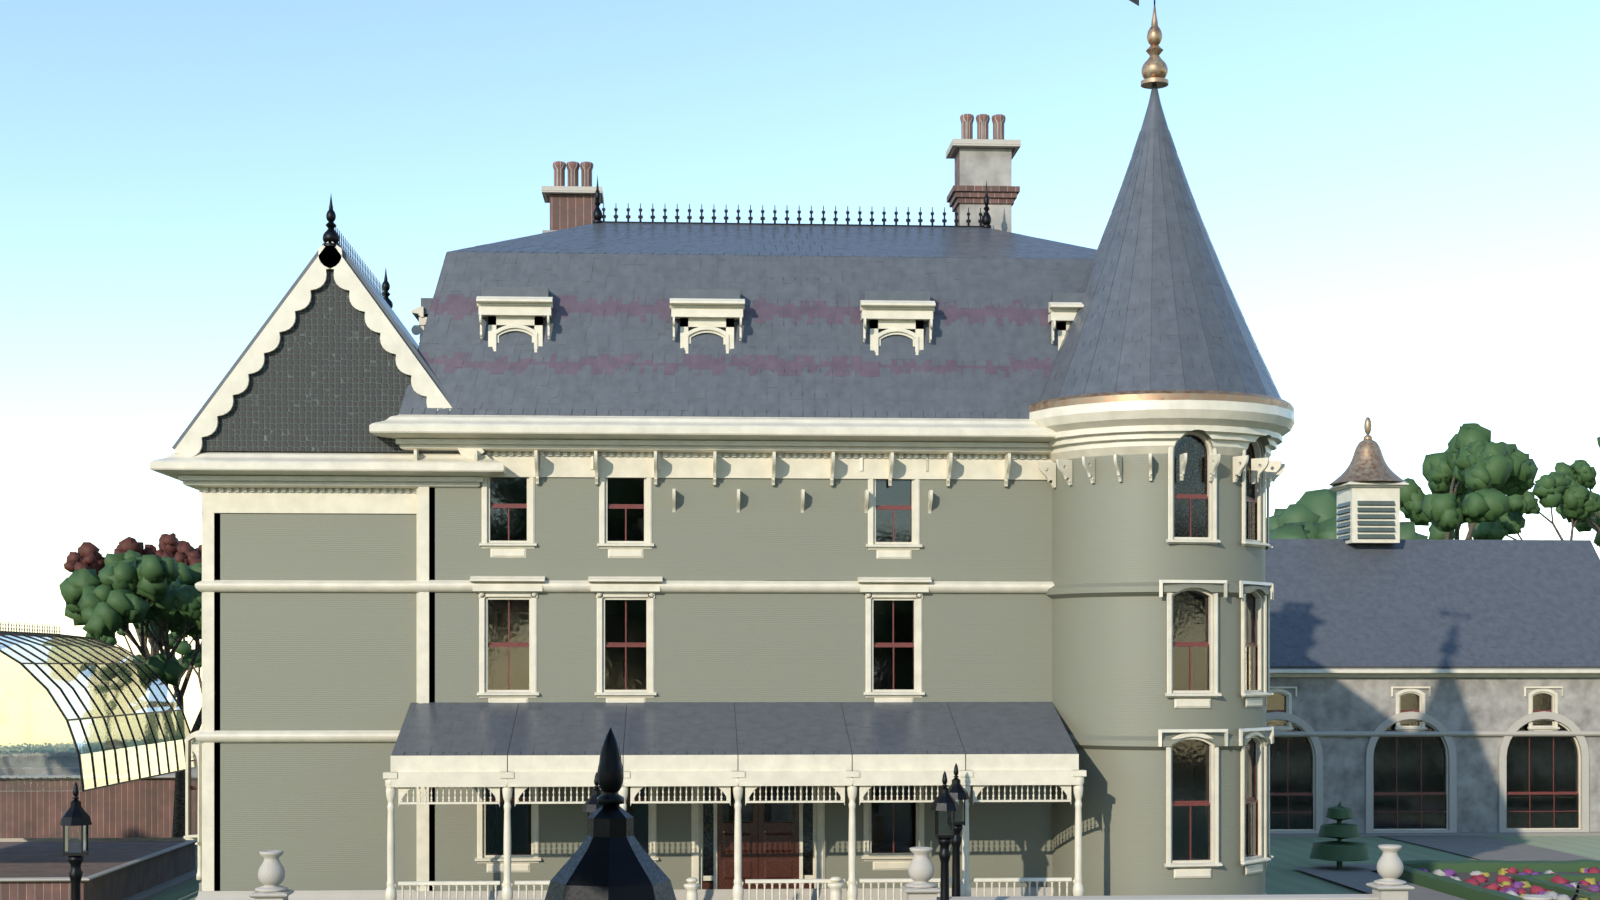
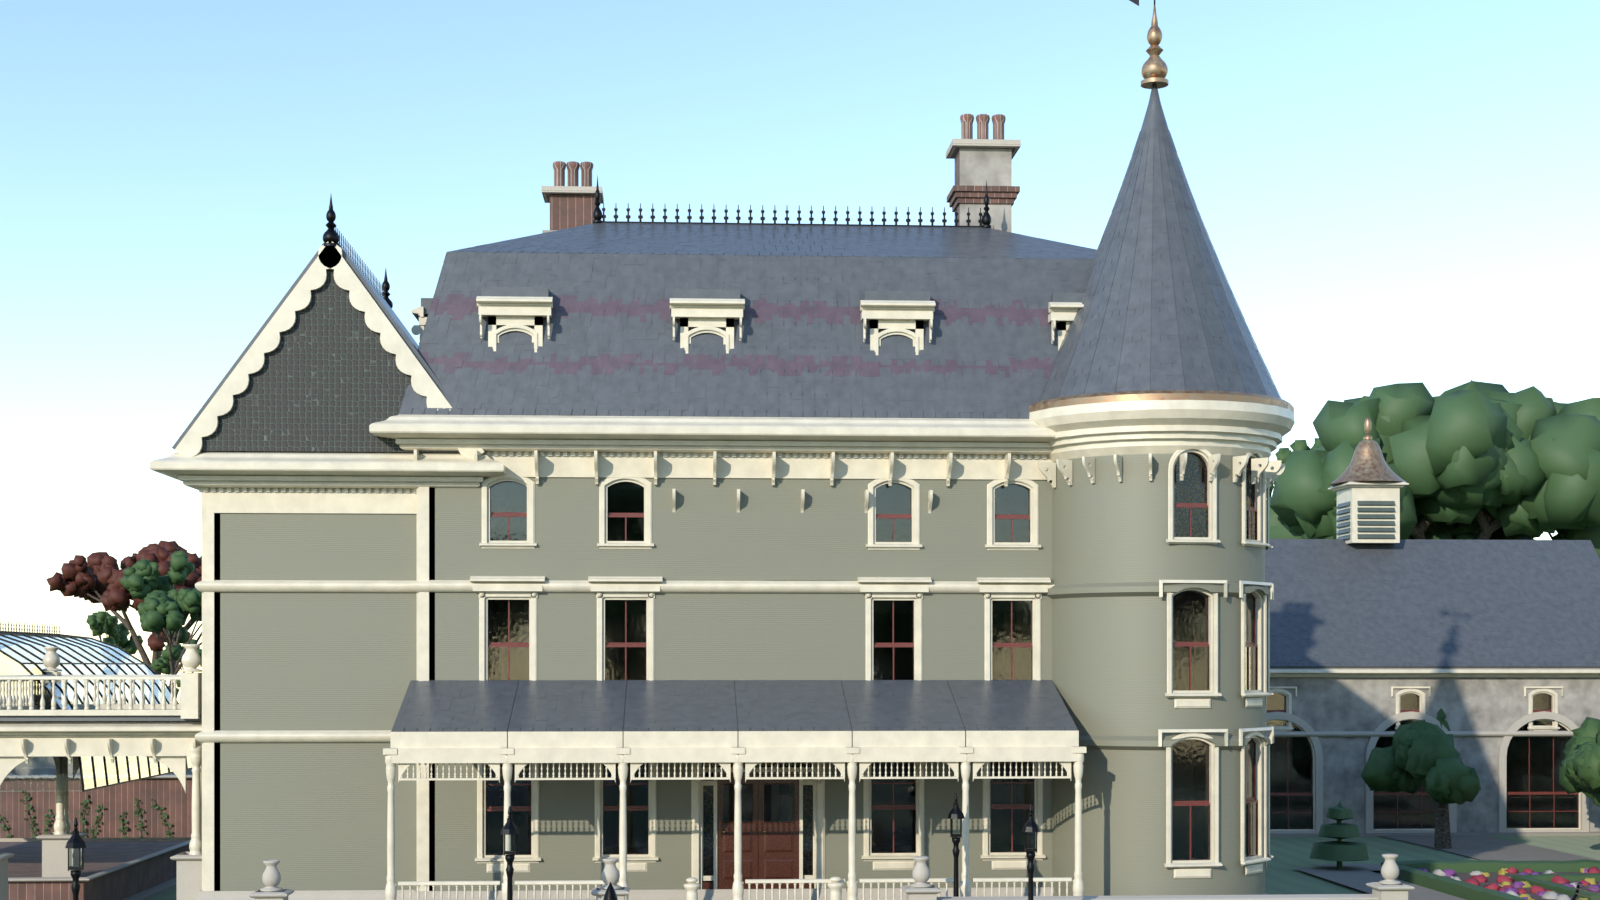
Fix bay offsets being measured from the world origin, not the block
Elevation.point returned an opening's position by using the bay offset
directly as a world coordinate. That is right only for the main block, whose
centre happens to be the origin; for the service wing and the pavilion every
window, cornice bracket and dormer was placed relative to the origin instead
of to the block, which put them off their own walls entirely. The pavilion's
whole south front was blank as a result, which is what showed up as a large
empty panel beside the entrance front.

Offsets are now measured from each block's own centre. The same correction
applies to place_dormers, which repeated the arithmetic.

Also: two consecutive points on a lathe's axis describe nothing - the quad
between them collapses to an edge, so nothing references the second and it
is left behind as a loose vertex. Runs of axis points are now collapsed.

diff --git a/victorian_estate/mansion/roof.py b/victorian_estate/mansion/roof.py
@@ -335,14 +335,15 @@ def place_dormers(b: config.Block, lib: Library, col, eave_z: float,
         span = b.sx if side in ("south", "north") else b.sy
         for i in range(count):
             off = -span / 2 + span * (i + 0.5) / count
+            # Offsets are measured from the block's own centre.
             if side == "south":
-                px, py = off, b.y1 + overhang - inset
+                px, py = b.cx + off, b.y1 + overhang - inset
             elif side == "north":
-                px, py = -off, b.y0 - overhang + inset
+                px, py = b.cx - off, b.y0 - overhang + inset
             elif side == "east":
-                px, py = b.x1 + overhang - inset, -off
+                px, py = b.x1 + overhang - inset, b.cy - off
             else:
-                px, py = b.x0 - overhang + inset, off
+                px, py = b.x0 - overhang + inset, b.cy + off
             made.append(mk.instance(proto, f"{b.name}.dormer.{side}.{i}",
                                     (px, py, eave_z + 0.30),
                                     rotation=(0.0, 0.0, yaw), col=col))

diff --git a/victorian_estate/mansion/shell.py b/victorian_estate/mansion/shell.py
@@ -66,16 +66,18 @@ class Elevation:
         """A point on the wall face, ``offset`` metres along it from centre.
 
         Offset runs left-to-right as seen from outside, so a bay schedule
-        reads the same way on every elevation.
+        reads the same way on every elevation, and is measured from the
+        block's own centre - not from the world origin, which only happens to
+        be the same thing for the main block.
         """
         b = self.block
         if self.side == "south":
-            return (offset, b.y1, z)
+            return (b.cx + offset, b.y1, z)
         if self.side == "north":
-            return (-offset, b.y0, z)
+            return (b.cx - offset, b.y0, z)
         if self.side == "east":
-            return (b.x1, -offset, z)
-        return (b.x0, offset, z)
+            return (b.x1, b.cy - offset, z)
+        return (b.x0, b.cy + offset, z)
 
 
 # ---------------------------------------------------------------------------

diff --git a/victorian_estate/core/meshkit.py b/victorian_estate/core/meshkit.py
@@ -273,6 +273,16 @@ def lathe(name: str, profile: Sequence[Vec2], segments: int = 20,
     leaving a ring of coincident points.
     """
     prof = [(max(0.0, float(r)), float(z)) for r, z in profile]
+    # Two consecutive points on the axis describe nothing: the quad between
+    # them collapses to an edge, so no face references the second one and it
+    # is left as a loose vertex.  Keep only the last of each such run.
+    collapsed: list[tuple[float, float]] = []
+    for point in prof:
+        if collapsed and point[0] < 1e-9 and collapsed[-1][0] < 1e-9:
+            collapsed[-1] = point
+        else:
+            collapsed.append(point)
+    prof = collapsed
     if len(prof) < 2:
         raise ValueError(f"lathe({name}): profile needs >= 2 points")
 
